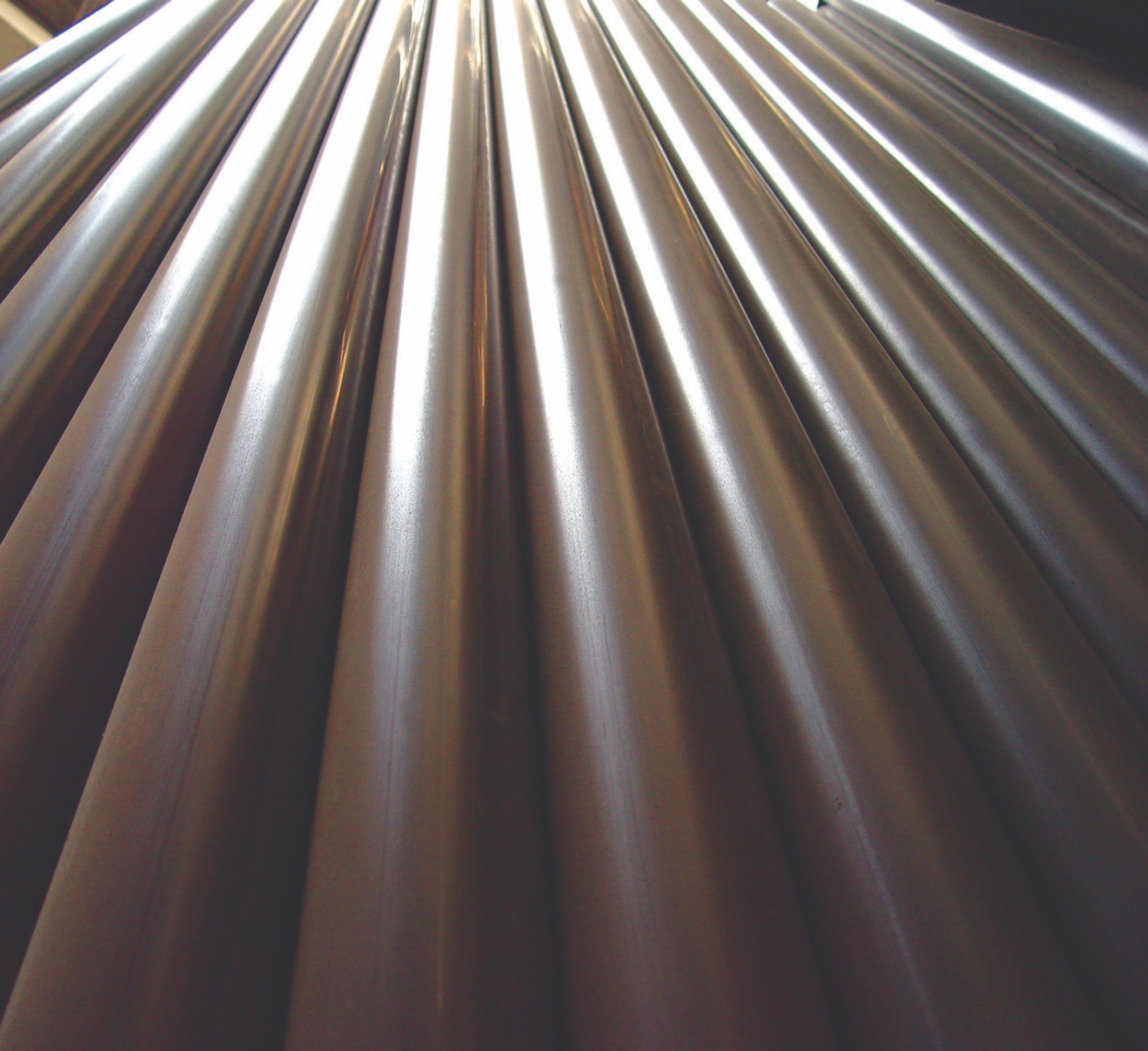
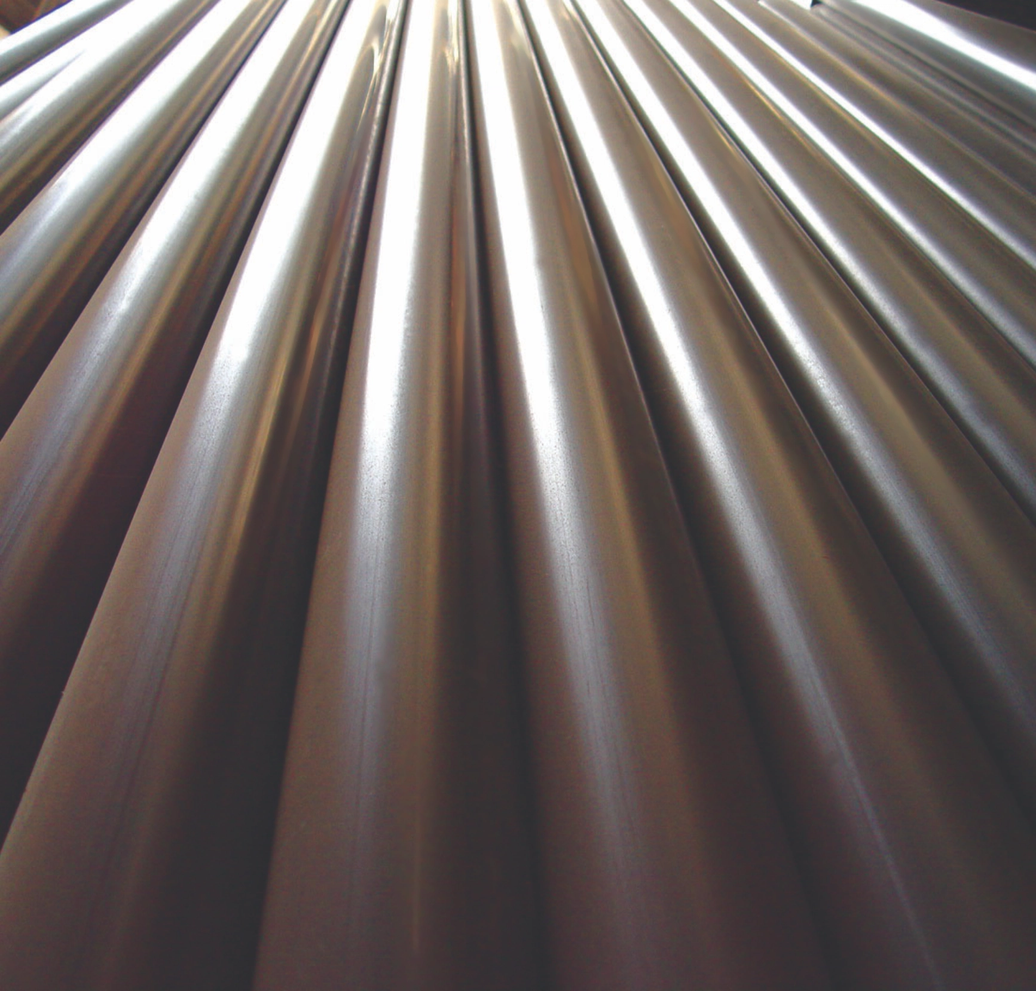
commit

diff --git a/about.html b/about.html
@@ -97,7 +97,7 @@
         <div class="container-founder">
     <div class="container about-split">
       <div class="about-split-image">
-        <img src="assets/images/corporate/founder_chairman.jpg" alt="Kassim Dada"style="margin-left: 4rem;">
+        <img src="assets/images/corporate/founder_chairman.jpg" alt="Kassim Dada">
       </div>
       <div class="about-split-text">
         <div class="kicker">Founder Chairman</div>
@@ -119,9 +119,9 @@
        <div class="about-split-text">
         <div class="kicker">The Vision</div>
         <h2>Our <span>Vision</span></h2>
-        <p>The destination Dadex is built to reach — for every stakeholder we serve.</p>
+        <p>The destination Dadex is built to reach - for every stakeholder we serve.</p>
         <blockquote>
-          “…to be the most valued company for all stakeholders, renowned for customer focus, innovation, quality, reliability &amp; ethical practices.”
+          “…to be the most valued company for all stakeholders, renowned for customer focus, innovation, quality, reliability & ethical practices.”
         </blockquote>
       </div>
       <div class="about-split-image">
@@ -161,80 +161,11 @@
     <div class="container about-split">
       <div class="about-split-text">
         <img src="assets/images/corporate/BB.webp" alt="Dadex Values" style="max-width: 83%; margin: 4rem 0;">
-        <h2 style="font-size: clamp(1.2rem, 3vw, 2.5rem); margin-bottom: 1.5rem;">Values that shape<br><span>how we work</span></h2>
+        <h2 style="font-size: clamp(1.2rem, 3vw, 2.5rem); margin-bottom: 1.5rem;">Values that shape <span>how we work</span></h2>
          <p>Customer focus, innovation, quality, reliability and ethical practices form the foundation of the Dadex approach.</p>
       </div>
       <div class="about-split-image-values">
         <img src="assets/images/corporate/BBF.webp" alt="Dadex Values">
-      </div>
-    </div>
-  </section>
-
- 
-  <!-- 8. WHAT WE MAKE --
-  <section class="section">
-    <div class="container">
-      <div class="section-header" style="margin-bottom: 3rem;">
-        <div class="kicker">What we make</div>
-        <h2>Systems for<br> <span>essential applications.</span></h2>
-        <p>Dadex's product architecture spans water supply, sewerage and drainage, cable and utility ducting, specialised and industrial applications, and roofing.</p>
-      </div>
-      
-      <div class="grid grid-3">
-        <a href="products.html#water-supply" class="make-card">
-          <h3>Water &amp; Building Systems</h3>
-          <p>UPVC, PP-R and PP-RCT systems for water supply.</p>
-        </a>
-        <a href="products.html#sewerage-drainage" class="make-card">
-          <h3>Sewerage &amp; Drainage</h3>
-          <p>Underground sewerage, soil-waste-vent and drainage.</p>
-        </a>
-        <a href="products.html#cable-utility-ducting" class="make-card">
-          <h3>Cable &amp; Utility Ducting</h3>
-          <p>PE cable duct and electrical conduit solutions.</p>
-        </a>
-        <a href="products.html#specialised-industrial" class="make-card">
-          <h3>Specialised &amp; Industrial</h3>
-          <p>Selected gas, compressed-air, and tubewell systems.</p>
-        </a>
-        <a href="products.html#roofing" class="make-card">
-          <h3>Roofing</h3>
-          <p>Corrugated sheet solutions rooted in our heritage.</p>
-        </a>
-      </div>
-    </div>
-  </section>
-
-  <!-- 9. SERVICES WE OFFER --
-  <section class="section section--dark">
-    <div class="container">
-      <div class="section-header" style="margin-bottom: 3rem;">
-        <div class="kicker">Services we offer</div>
-        <h2>Support <br> <span>beyond the product.</span></h2>
-        <p>A partnership built on commitment — supporting customers before, during and after the sale.</p>
-      </div>
-
-      <div class="grid grid-4">
-        <div class="card card--dark">
-          <div class="kicker">01</div>
-          <h3 style="font-size: 1.25rem;">Design &amp; Proposals</h3>
-          <p>Design proposals, BOQ, estimates and product selection support.</p>
-        </div>
-        <div class="card card--dark">
-          <div class="kicker">02</div>
-          <h3 style="font-size: 1.25rem;">Tools Availability</h3>
-          <p>Tools for jointing, laying and installation.</p>
-        </div>
-        <div class="card card--dark">
-          <div class="kicker">03</div>
-          <h3 style="font-size: 1.25rem;">Demonstrations &amp; Training</h3>
-          <p>In-house, on-field and plumber training.</p>
-        </div>
-        <div class="card card--dark">
-          <div class="kicker">04</div>
-          <h3 style="font-size: 1.25rem;">On-Site Support</h3>
-          <p>Laying and testing support at the project site.</p>
-        </div>
       </div>
     </div>
   </section>
@@ -284,9 +215,9 @@
 <section class="section bg-light">
   <div class="container grid grid-2 home-quality__inner">
     <div>
-      <div class="kicker">Quality &amp; Compliance</div>
+      <div class="kicker">Quality & Compliance</div>
       <h2>Standards <br><span>we stand behind.</span></h2>
-      <p class="home-quality__desc">Dadex is committed to quality, reliability and ethical practices, supported by recognized management systems and standards.</p>
+      <p>Dadex is committed to quality, reliability and ethical practices, supported by recognized management systems and standards.</p>
       <a class="btn btn--outline" href="quality.html">Quality &amp; compliance <i class="fas fa-arrow-right"></i></a>
     </div>
     <div class="about-quality__grid">

diff --git a/css/about-page.css b/css/about-page.css
@@ -19,6 +19,7 @@
   gap: 2rem;
   align-items: start;
   justify-items: center;
+    max-width: 72vw;
 }
 .about-split.is-flipped .about-split-text { order: 2; }
 .about-split.is-flipped .about-split-image { order: 1; }
@@ -51,7 +52,7 @@
   font-weight: 700;
   border-left: 4px solid var(--brand-red);
   padding-left: 1.5rem;
-  margin: 5rem 0 0 2rem;
+  margin: 4rem 0 0 0;
   line-height: 1.6;
   max-width: 30ch;
 }
@@ -136,6 +137,8 @@
   display: flex;
   flex-direction: column;
   gap: 1rem;
+  max-width: 30vw;
+  align-items: flex-start;
 }
 .mission-list li {
   position: relative;
@@ -176,7 +179,7 @@
   display: grid;
   grid-template-columns: 1fr 1fr;
   gap: 4rem;
-  padding: 5rem;
+  padding: 4rem 2rem;
   align-items: start;
 }
 .about-split-image-values {
@@ -191,31 +194,6 @@
   height: auto;
   display: block;
   border-radius: inherit;
-}
-
-/* --- What we make (link cards) --- */
-.make-card {
-  display: block;
-  background: #fff;
-  padding: 1.5rem;
-  border: 1px solid var(--line);
-  border-radius: var(--radius-md);
-  text-decoration: none;
-  transition: all var(--transition);
-}
-.make-card:hover {
-  border-color: var(--brand-red);
-  box-shadow: var(--shadow-sm);
-}
-.make-card h3 {
-  color: var(--brand-red);
-  font-size: 1.125rem;
-  margin-bottom: 0.5rem;
-}
-.make-card p {
-  color: var(--muted);
-  font-size: 0.875rem;
-  margin: 0;
 }
 
 /* ============================================================
@@ -233,9 +211,9 @@
 .partners-section::before {
   content: "";
   position: absolute;
-  width: 30rem; 
-  height: 30rem;
-  border: 4rem solid rgb(201 0 0 / 8%);
+  width: 40rem; 
+  height: 40rem;
+  border: 7rem solid rgb(201 0 0 / 8%);
   border-radius: 50%;
   right: -5rem; 
   bottom: -10rem;
@@ -272,7 +250,8 @@
 .partners-header p {
   color: rgba(255, 255, 255, 0.72);
   font-size: 1.125rem;
-  line-height: 1.7;
+  line-height: 1.5;
+  max-width: 33vw;
   margin: 0;
 }
 
@@ -280,7 +259,7 @@
 .partners-cards {
   display: grid;
   grid-template-columns: repeat(3, 1fr);
-  gap: 5rem;
+  gap: 4rem;
 }
 
 /* Individual Partner Card */
@@ -304,7 +283,7 @@
 
 .partner-item-name {
   display: block; 
-  margin-bottom: 0.75rem;
+  margin-bottom: 0.92rem;
 }
 
 .partner-item h3 {
@@ -318,7 +297,7 @@
   display: inline; 
   font-size: 1.2rem;
   text-transform: uppercase;
-  color: rgba(255, 255, 255, 0.6);
+  color: rgba(255, 255, 255, 0.4);
   letter-spacing: 0.05em;
   font-weight: 700;
 }
@@ -327,21 +306,7 @@
   font-size: 1.1rem;
   color: rgba(255, 255, 255, 0.85);
   margin: 0;
-  line-height: 1.6;
-}
-
-/* Responsive */
-@media (max-width: 1024px) {
-  .partners-grid {
-    grid-template-columns: 1fr;
-    gap: 3rem;
-  }
-}
-
-@media (max-width: 768px) {
-  .partners-cards {
-    grid-template-columns: 1fr; /* Stacks cards on phones */
-  }
+  line-height: 1.5;
 }
 
 /* --- Quality Section --- */
@@ -349,10 +314,12 @@
   align-items: center;
   gap: 4rem;
 }
-.about-quality__desc {
+
+.home-quality__inner p {
   font-size: 1.125rem;
   color: var(--muted);
-  margin: 1.5rem 0 2rem;
+  margin: 2rem 0;
+  max-width: 30vw;
 }
 .about-quality__grid {
   display: grid;
@@ -374,13 +341,29 @@
 .about-quality__item span {
   font-size: 2rem;
   font-weight: 800;
-  color: var(--ink);
+  color: var(--muted-light);
 }
 .about-quality__item small {
   display: block;
   color: var(--muted);
   margin-top: 0.5rem;
+  font-size: 1rem;
 }
+
+/* Responsive */
+@media (max-width: 1024px) {
+  .partners-grid {
+    grid-template-columns: 1fr;
+    gap: 3rem;
+  }
+}
+
+@media (max-width: 768px) {
+  .partners-cards {
+    grid-template-columns: 1fr; /* Stacks cards on phones */
+  }
+}
+
 
 /* --- About page responsive --- */
 @media (max-width: 1024px) {
